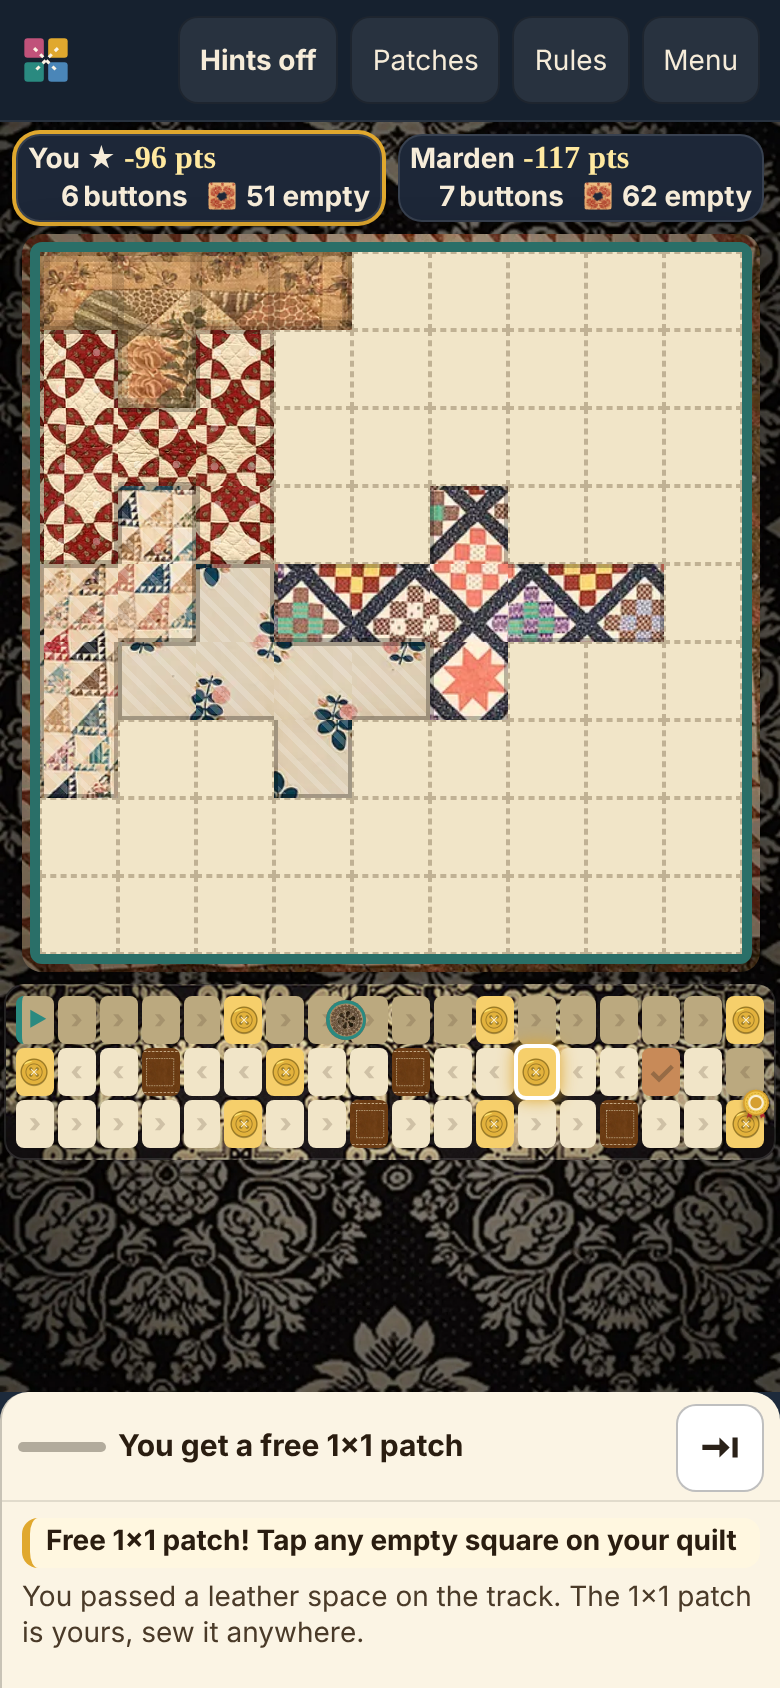
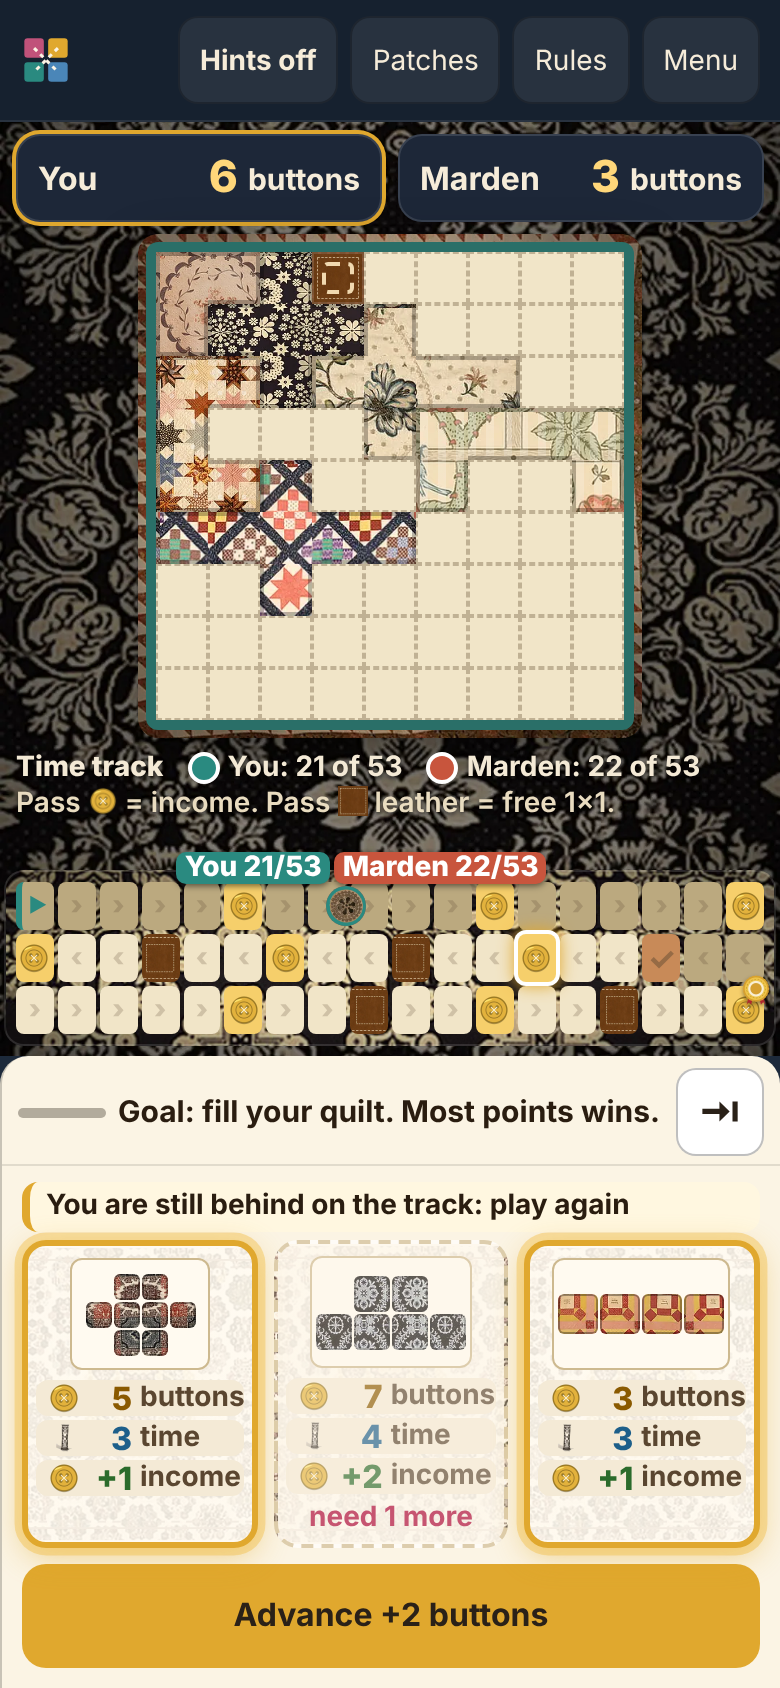
Stitchwise: plain score plates and a labelled time track
Score plates show the name and buttons big, no running score (it read
-157 at the start); the score stays in the result and score drawer.
The time track gets a header (Time track, You: 0 of 53, Marden: 0 of 53,
what passing a button or leather spot does) and name tags with progress
on both tokens. On phones under 800px tall the header hides and tapping
the track explains it, so the quilt keeps 24px+ cells.

diff --git a/games-src/stitchwise/src/ui1.js b/games-src/stitchwise/src/ui1.js
@@ -32,7 +32,7 @@ function lvlOf(s) { return UI.mode === 'hot' ? 'human' : (UI.camp ? UI.camp.oppo
 function layout() {
   document.documentElement.classList.toggle('sm', innerHeight < 700); var b = GX.boardSize(), W = b.w, H = b.h, wide = W > H * 1.12 && W >= 600; UI.wide = wide; var bd = $('#bd'); bd.classList.toggle('wide', wide);
   var cs;
-  var fr = artHas('quilt-frame') ? (wide ? 20 : 8) : 0; if (wide) cs = Math.floor(Math.min((H - 20 - 12 - fr) / 9, (W * 0.55 - fr) / 9)); else cs = Math.floor(Math.min((W - 16 - 10 - fr) / 9, (H - 12 - 46 - 56 - 22 - 26 - fr) / 9));
+  var fr = artHas('quilt-frame') ? (wide ? 20 : 8) : 0; if (wide) cs = Math.floor(Math.min((H - 20 - 12 - fr) / 9, (W * 0.55 - fr) / 9)); else cs = Math.floor(Math.min((W - 16 - 10 - fr) / 9, (H - 12 - 46 - 56 - 22 - 26 - (innerHeight < 800 ? -12 : 60) - fr) / 9)); /* W484: room for the track header */
   cs = Math.max(18, Math.min(72, cs)); document.documentElement.style.setProperty('--cs', cs + 'px'); UI.cs = cs;
   var tw = wide ? Math.max(190, Math.min(520, W - 9 * cs - 70)) : Math.min(W - 16, 560); var tr = $('#track'); if (tr) tr.style.width = tw + 'px';
 }
@@ -58,22 +58,26 @@ function quiltEl(seat, cls) {
 function thumb(seat) { var c = document.createElement('canvas'); c.width = c.height = 90; c.className = 'thumb'; var x = c.getContext('2d'); x.fillStyle = '#f1e5c8'; x.fillRect(0, 0, 90, 90); for (var i = 0; i < 81; i++) { var p = G.board[seat][i]; if (p === -1) continue; x.fillStyle = p === 99 ? '#4d4032' : p === 100 ? '#8a5a3a' : pcol(p); x.fillRect((i % 9) * 10 + 0.5, ((i / 9) | 0) * 10 + 0.5, 9, 9); } return c; }
 function strip(seat) {
   var sc = swScore(G, seat), w = (UI.peek >= 0 ? UI.peek : swWho(G)) === seat && !G.over;
-  return h('button.pstrip' + (w ? '.turn' : ''), { type: 'button', 'data-a': 'strip', 'data-seat': seat, title: 'Score now ' + sc.total, 'aria-label': nameOf(seat) + ': ' + G.btn[seat] + ' buttons, income ' + G.inc[seat] + ', score ' + sc.total + '. Tap for their quilt.' },
-    h('span.dot', { style: 'background:' + (seat === 0 ? 'var(--me)' : 'var(--opp)') }), thumb(seat), h('b', nameOf(seat) + (sc.total > swScore(G, 1 - seat).total ? ' \u2605' : ''), h('span.pts', ' ' + sc.total + ' pts')),
+  return h('button.pstrip' + (w ? '.turn' : ''), { type: 'button', 'data-a': 'strip', 'data-seat': seat, title: 'If it ended now: ' + sc.total + ' points', 'aria-label': nameOf(seat) + ': ' + G.btn[seat] + ' buttons, income ' + G.inc[seat] + ', score ' + sc.total + '. Tap for their quilt.' },
+    h('span.dot', { style: 'background:' + (seat === 0 ? 'var(--me)' : 'var(--opp)') }), thumb(seat), h('b', nameOf(seat)), /* W484: no running score on the plate (it read -157 at the start); the score is in the result and the score drawer */
     h('span.st', h('span.bt', { html: '<span class="nb" data-seat="' + seat + '">' + G.btn[seat] + '</span> buttons', title: 'Buttons' }), false ? h('span.bt', { html: '<small>income</small> +' + G.inc[seat], title: 'Buttons earned each time a gold spot is passed' }) : null, h('span.bt.emp', { title: 'Empty squares, -2 each', html: (artHas('torn-square') ? '<img class="ic torn" alt="" src="' + artUrl('torn-square') + '">' : '') + sc.empty + ' empty' }), G.bonus === seat ? h('span.bt', { html: bonusIc() + '+7', title: '7x7 bonus' }) : null));
 }
 // ---------- track
 function trackCols() { return UI.wide ? 9 : 18; }
 function trackPos(i) { var cols = trackCols(), r = (i / cols) | 0, c = i % cols; if (r % 2) c = cols - 1 - c; return [r, c]; }
+function trackHead() { // W484: say what the strip is, who is where, and what passing a spot does
+  var dot = function (s) { return h('i.trdot', { style: 'background:' + (s === 0 ? 'var(--me)' : 'var(--opp)') }); };
+  return h('div#trhead', { role: 'button', tabindex: '0', 'data-a': 'trhelp', 'aria-label': 'Time track: what passing a spot does' }, h('div.trl', h('b', 'Time track'), h('span', dot(0), nameOf(0) + ': ' + G.pos[0] + ' of ' + SW.TRACK), h('span', dot(1), nameOf(1) + ': ' + G.pos[1] + ' of ' + SW.TRACK)),
+    h('div.trr', { html: 'Pass ' + btnIc() + ' = income. Pass ' + leaIc() + ' leather = free 1\u00D71.' })); }
 function renderTrack() {
-  var cols = trackCols(), rows = Math.ceil(54 / cols), t = $('#track'); if (!t) { t = h('div#track', { role: 'img' }); }
+  var cols = trackCols(), rows = Math.ceil(54 / cols), t = $('#track'); if (!t) { t = h('div#track', { role: 'img', 'data-a': 'trhelp' }); }
   t.innerHTML = ''; t.style.gridTemplateColumns = 'repeat(' + cols + ',1fr)'; t.style.gridTemplateRows = 'repeat(' + rows + ',auto)';
   for (var i = 0; i <= SW.TRACK; i++) { var rc = trackPos(i), cell = h('div.tc'); cell.dataset.i = i; cell.style.gridRow = rc[0] + 1; cell.style.gridColumn = rc[1] + 1;
     if (SW.BTN_SPOTS.indexOf(i) >= 0) { cell.classList.add('bspot'); cell.innerHTML = btnIc(); } else if (SW.LEATHER_SPOTS.indexOf(i) >= 0) { cell.classList.add('lspot'); var taken = G.leather[SW.LEATHER_SPOTS.indexOf(i)] !== null; cell.innerHTML = taken ? '<span style="opacity:.45">&#10003;</span>' : leaIc(); if (!taken && artBg(cell, 'patch-leather')) cell.style.backgroundSize = 'cover'; } else if (i === 0) cell.classList.add('tstart'); else if (i === 53) { cell.classList.add('tend'); var bi = artImg('icon-bonus', 'ic'); if (bi) { bi.alt = '7x7 bonus'; cell.appendChild(bi); cell.classList.add('hasimg'); } }
     if (i === SW.TRACK && !cell.querySelector('.bfin')) { var bi2 = artImg('icon-bonus', 'ic bfin'); if (bi2) { bi2.alt = 'Finish: 7x7 bonus is judged here'; cell.appendChild(bi2); } }
     if (rc[0] % 2) cell.classList.add('trv'); if (i < Math.min(G.pos[0], G.pos[1])) cell.classList.add('past'); t.appendChild(cell); }
   artBg(t, 'track-frame'); t.style.backgroundSize = 'cover';
-  [1, 0].forEach(function (s) { var k = h('div.tk.' + (s === 0 ? 'me' : 'opp'), { 'data-seat': s, title: nameOf(s) + ' at ' + G.pos[s] }); if (artHas(s === 0 ? 'token-me' : 'token-opp')) { artBg(k, s === 0 ? 'token-me' : 'token-opp'); k.style.backgroundSize = 'contain'; k.style.border = '0'; k.style.boxShadow = 'none'; } t.appendChild(k); });
+  [1, 0].forEach(function (s) { var k = h('div.tk.' + (s === 0 ? 'me' : 'opp'), { 'data-seat': s, title: nameOf(s) + ' at ' + G.pos[s] }, h('span.tkn', nameOf(s) + ' ' + G.pos[s] + '/' + SW.TRACK)); if (artHas(s === 0 ? 'token-me' : 'token-opp')) { artBg(k, s === 0 ? 'token-me' : 'token-opp'); k.style.backgroundSize = 'contain'; k.style.border = '0'; k.style.boxShadow = 'none'; } t.appendChild(k); });
   t.setAttribute('aria-label', 'Time track. ' + nameOf(0) + ' at ' + G.pos[0] + ' of 53, ' + nameOf(1) + ' at ' + G.pos[1] + '.');
   return t;
 }
@@ -83,8 +87,12 @@ function placeTokens() { var t = $('#track'); if (!t) return; var top = G.stamp[
   var W = UI.walks = UI.walks || {}, now = Date.now(), stp = Math.max(40, sp(150));
   [0, 1].forEach(function (s) { if (last[s] < G.pos[s] && amt(1)) W[s] = { from: W[s] ? curW(s) : last[s], to: G.pos[s], t0: now }; });
   function curW(s) { var w = W[s]; if (!w) return G.pos[s]; var n = w.from + Math.floor((Date.now() - w.t0) / stp); if (n >= w.to || w.to !== G.pos[s]) { delete W[s]; return G.pos[s]; } return n; }
-  function tick() { var tt = $('#track'); if (!tt) return; var more = false; [0, 1].forEach(function (s) { var k = $('.tk[data-seat="' + s + '"]', tt); if (!k) return; k.classList.toggle('top', G.pos[0] === G.pos[1] && s === top); if (W[s]) { k.style.transition = 'left .12s, top .12s'; more = true; } at(k, curW(s), s); if (W[s] && !k._st) { k._st = 1; } }); if (more) { clearTimeout(UI.tm.walk); UI.tm.walk = setTimeout(tick, stp); } }
-  tick(); }
+  function tick() { var tt = $('#track'); if (!tt) return; var more = false; [0, 1].forEach(function (s) { var k = $('.tk[data-seat="' + s + '"]', tt); if (!k) return; k.classList.toggle('top', G.pos[0] === G.pos[1] && s === top); if (W[s]) { k.style.transition = 'left .12s, top .12s'; more = true; } at(k, curW(s), s); if (W[s] && !k._st) { k._st = 1; } }); tagFit(); if (more) { clearTimeout(UI.tm.walk); UI.tm.walk = setTimeout(tick, stp); } }
+  tick(); setTimeout(tagFit, 0); }
+function tagFit() { var t = $('#track'); if (!t) return; var tw = t.clientWidth, L = []; /* W484: name tags stay inside the track and never overlap each other */
+  $$('.tk', t).forEach(function (k) { var g = $('.tkn', k); if (!g) return; var kx = k.offsetLeft + k.offsetWidth / 2, ky = k.offsetTop, gw = g.offsetWidth; L.push({ g: g, kx: kx, ky: ky, gw: gw, me: k.dataset.seat === '0', l: kx - gw / 2 }); });
+  if (L.length === 2 && Math.abs(L[0].ky - L[1].ky) < 8) { L.sort(function (a, b) { return a.kx - b.kx || (a.me ? -1 : 1); }); var a = L[0], b = L[1], ov = a.l + a.gw + 3 - b.l; if (ov > 0) { a.l -= ov / 2; b.l += ov / 2; } if (a.l < 2) { b.l += 2 - a.l; a.l = 2; } if (b.l + b.gw > tw - 2) { a.l -= b.l + b.gw - tw + 2; b.l = tw - 2 - b.gw; } }
+  L.forEach(function (o) { o.l = Math.max(2, Math.min(tw - o.gw - 2, o.l)); o.g.style.left = '50%'; o.g.style.transform = 'translateX(' + Math.round(o.l - o.kx) + 'px)'; }); }
 function markLanding() {
   var t = $('#track'); if (!t || !G) return; $$('.tc.land,.tc.next', t).forEach(function (e) { e.classList.remove('land', 'next'); }); var s = swWho(G); if (s < 0) s = 0; var pos = G.pos[s], nx = null;
   SW.BTN_SPOTS.concat(SW.LEATHER_SPOTS.filter(function (l, i) { return G.leather[i] === null; })).forEach(function (b) { if (b > pos && (nx === null || b < nx)) nx = b; });
@@ -102,7 +110,7 @@ function render() {
   artBg($('#board'), 'bg-table');
   var ps = UI.peek >= 0 && UI.mode !== 'hot' ? 0 : vs, pills = h('div#pills', strip(ps), strip(1 - ps)), sbar = scoreBar();
   qf.appendChild(q); if (UI.wide) { qc.appendChild(qf); sd.appendChild(pills); if (hintsOn()) sd.appendChild(sbar); } else { qc.appendChild(pills); qc.appendChild(qf); }
-  var tr = renderTrack(); sd.appendChild(tr);
+  sd.appendChild(trackHead()); var tr = renderTrack(); sd.appendChild(tr);
   if (UI.wide && !(UI.wide && hintsOn())) { var mcs = Math.max(14, Math.min(30, Math.floor(((innerHeight - 330) / 9)))), sv = UI.cs, svn = UI.newCells; UI.cs = mcs; UI.newCells = {}; var oq = quiltEl(os, 'opp'); UI.cs = sv; UI.newCells = svn; oq.removeAttribute('id'); oq.className = 'oppq'; oq.style.setProperty('--cs', mcs + 'px'); oq.style.backgroundImage = 'none'; oq.setAttribute('data-a', 'strip'); oq.setAttribute('data-seat', os); oq.setAttribute('role', 'button'); oq.setAttribute('aria-label', nameOf(os) + ' quilt, tap to enlarge'); sd.appendChild(h('div.oppwrap', h('span', os === 0 && UI.mode !== 'hot' ? 'Your quilt' : nameOf(os) + '\u2019s quilt'), oq)); } if (UI.wide && hintsOn()) { sd.appendChild(h('div#tinfo', trackInfo())); var om = h('button.oppmini', { type: 'button', 'data-a': 'strip', 'data-seat': os, 'aria-label': nameOf(os) + ' quilt, tap to enlarge' }, thumb(os), h('span', h('b', os === 0 && UI.mode !== 'hot' ? 'Your quilt' : nameOf(os) + '\u2019s quilt'), h('small', swScore(G, os).empty + ' empty squares \u00B7 score now ' + swScore(G, os).total))); sd.appendChild(om); } placeTokens(); markLanding();
   drawGhost();
   var bp = $('#barprompt'); if (bp) bp.textContent = G.over ? 'Game over' : UI.peek >= 0 ? nameOf(UI.peek) + ' is stitching' : (isHuman(swWho(G)) ? (UI.mode === 'hot' ? nameOf(swWho(G)) + ' to play' : 'Your turn') : nameOf(swWho(G)) + ' is stitching');

diff --git a/games-src/stitchwise/src/head.html b/games-src/stitchwise/src/head.html
@@ -356,5 +356,19 @@ html:not(.sm) .gx-dock-head .gx-dt{font-size:15px!important;color:#2a1d10}}
 .offer .hand b{font-size:14px;font-weight:800;background:#2a1d10;color:#fff;border-radius:6px;padding:0 6px;margin-top:-2px}
 @keyframes handb{50%{transform:translateY(-8px)}}
 @media (prefers-reduced-motion:reduce){.offer .hand{animation:none}}
+
+/* W484: time-track header and named tokens */
+#trhead{width:min(100%,560px);color:#f4ead6;font-size:14px;line-height:1.25;margin:0 0 3px;text-shadow:0 1px 2px #000a}
+#trhead .trl{display:flex;flex-wrap:wrap;gap:4px 12px;align-items:center;font-weight:700}#trhead .trl b{font-weight:800}
+#trhead .trl span{display:inline-flex;align-items:center;gap:4px}#trhead .trdot{width:12px;height:12px;border-radius:50%;border:2px solid #fff;display:inline-block}
+#trhead .trr{font-weight:600;color:#e9dcc0}#trhead .trr img.ic,#trhead .trr svg{width:15px;height:15px;vertical-align:-2px}
+.tk .tkn{position:absolute;left:50%;transform:translateX(-50%);bottom:calc(100% + 1px);background:var(--me);color:#fff;font-size:14px;font-weight:800;line-height:1;padding:1px 4px;border-radius:5px;white-space:nowrap;box-shadow:0 1px 3px #0008;pointer-events:none}
+.tk.opp .tkn{background:var(--opp)}#trhead{margin-bottom:17px!important}
+#bd.wide #trhead{width:100%}
+@media (max-width:600px){.pstrip{display:flex!important;align-items:center;gap:8px!important;min-height:44px;padding:3px 10px!important}.pstrip .thumb,.pstrip canvas{display:none!important}
+.pstrip .emp{display:none!important}.pstrip .st{margin-left:auto}.pstrip .st .bt{font-size:15px!important;font-weight:700}.pstrip .nb{font-size:22px!important;font-weight:800;margin-right:3px;color:#ffd77a}.pstrip b{font-size:16px!important}}
+@media (max-width:600px) and (max-height:800px){.tc{height:20px!important}.tc img.ic,.tc svg{width:14px!important;height:14px!important}}
+@media (max-width:600px) and (max-height:799px){#trhead{display:none}}#track{cursor:pointer}
+#trhead{cursor:pointer}
 </style>
 </head>

diff --git a/games-src/stitchwise/src/ui3.js b/games-src/stitchwise/src/ui3.js
@@ -28,7 +28,7 @@ function renderSetup(st) {
 }
 document.addEventListener('click', function (e) {
   var t = e.target.closest('[data-a]'); if (!t) return; var a = t.dataset.a;
-  if (a === 'offer') selectOffer(+t.dataset.k); else if (a === 'adv') doAdvance(); else if (a === 'rot') rotate(); else if (a === 'flip') flip(); else if (a === 'sew') confirmSew(); else if (a === 'cancel') cancelSel();
+  if (a === 'trhelp') toast('Time track: pass a button spot = income. Pass a leather patch = free 1\u00D71. Further back plays next.', 4000); else if (a === 'offer') selectOffer(+t.dataset.k); else if (a === 'adv') doAdvance(); else if (a === 'rot') rotate(); else if (a === 'flip') flip(); else if (a === 'sew') confirmSew(); else if (a === 'cancel') cancelSel();
   else if (a === 'strip') { if (G && !UI.coach) { t.classList.add('tapped'); setTimeout(function () { t.classList.remove('tapped'); }, 500); showScoreDrawer(); return; } var sd = +t.dataset.seat; if (sd !== viewSeat()) showOppQuilt(sd); else { t.classList.add('tapped'); setTimeout(function () { t.classList.remove('tapped'); }, 500); } }
   else if (a === 'resume') loadGame(); else if (a === 'quick' || a === 'start') showStart('setup'); else if (a === 'rules') { GX.show('rulesd'); }
   else if (a === 'story') storyOpen(); else if (a === 'learn') tutStart(); else if (a === 'goalok') closeGoal(); else if (a === 'whatdo') whatDo(); else if (a === 'skipmap') { coachSkipToMap(); } else if (a === 'result') showResult(); else if (a === 'again') { var lv = UI.lvl; newGame(UI.mode === 'hot' ? 'hot' : 'vs', { lvl: lv }); } else if (a === 'title') showStart(); else if (a === 'look') { $('#rs').hidden = true; }
